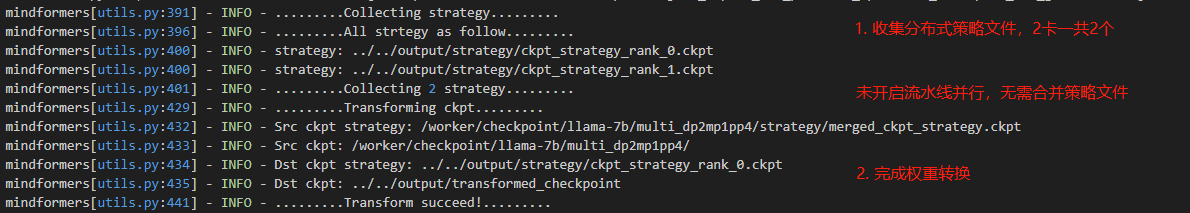
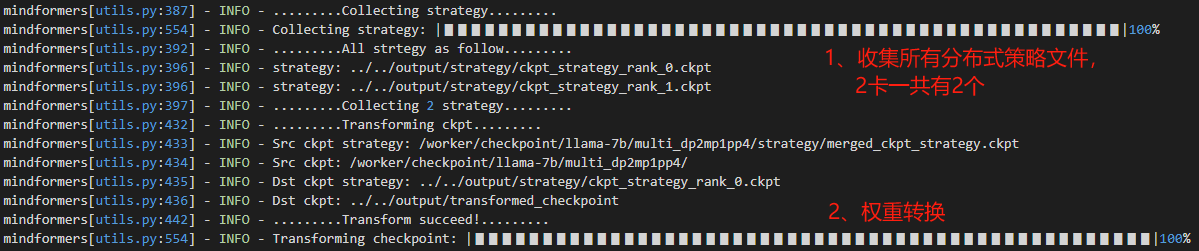
auto_trans整改

diff --git a/mindformers/trainer/utils.py b/mindformers/trainer/utils.py
@@ -31,11 +31,10 @@ from mindformers.tools.logger import logger
 from mindformers.tools.register import MindFormerConfig
 from mindformers.tools.utils import check_in_modelarts, get_output_root_path
 from mindformers.tools.transform_ckpt import get_strategy
+from mindformers.tools.cloud_adapter import mox_adapter
 
 if check_in_modelarts():
     import moxing as mox
-
-ELAPSE_TIME = 7200
 
 class BaseEnum(str, Enum):
     """
@@ -309,9 +308,10 @@ def transform_and_load_checkpoint(config, model, network, dataset, optimizer=Non
 
     if config.auto_trans_ckpt:
         # 2. get strategy
+        src_ckpt_strategy = get_strategy(config.src_strategy_path_or_dir)
         dst_ckpt_strategy = get_dst_strategy(config)
         # 3. transform checkpoint if needed
-        transform_ckpt(config, dst_ckpt_strategy=dst_ckpt_strategy)
+        transform_ckpt(config, src_ckpt_strategy=src_ckpt_strategy, dst_ckpt_strategy=dst_ckpt_strategy)
 
     # 4. load ckpt
     load_ckpt(config, network, optimizer=optimizer)
@@ -416,98 +416,133 @@ def get_dst_strategy(config):
     return dst_strategy_path
 
 
-def transform_ckpt(config, dst_ckpt_strategy=None):
+def transform_ckpt(config, src_ckpt_strategy=None, dst_ckpt_strategy=None):
     """auto transform ckpt"""
+    if not config.load_checkpoint or not os.path.exists(config.load_checkpoint):
+        raise ValueError("The load_checkpoint should be exist, "
+                         f"but get {config.load_checkpoint}.")
+    if not os.path.isdir(config.load_checkpoint) or \
+        not glob(os.path.join(config.load_checkpoint, "rank*")):
+        raise ValueError("The load_checkpoint must be a dir and "
+                         "ckpt should be stored in the format of load_checkpoint/rank_x/xxx.ckpt,"
+                         f"but get {config.load_checkpoint}.")
+
     rank_id = get_rank() if config.use_parallel else 0
     world_size = get_group_size() if config.use_parallel else 1
     transformed_ckpt_dir = os.path.join(get_output_root_path(), "transformed_checkpoint")
     os.makedirs(transformed_ckpt_dir, exist_ok=True)
     if rank_id % 8 == 0:
         logger.info(".........Transforming ckpt.........")
-        src_ckpt_strategy = get_strategy(config.src_strategy_path_or_dir)
-
         logger.info("Src ckpt strategy: %s", src_ckpt_strategy)
         logger.info("Src ckpt: %s", config.load_checkpoint)
         logger.info("Dst ckpt strategy: %s", dst_ckpt_strategy)
         logger.info("Dst ckpt: %s", transformed_ckpt_dir)
-        ms.transform_checkpoints(config.load_checkpoint,
-                                 transformed_ckpt_dir,
-                                 'checkpoint_',
-                                 src_ckpt_strategy,
-                                 dst_ckpt_strategy)
-        logger.info(".........Transform succeed!.........")
-        transform_succeed_txt = os.path.join(transformed_ckpt_dir, f'transform_succeed_rank_{rank_id}.txt')
-        f = open(transform_succeed_txt, 'w')
-        f.close()
+        try:
+            ms.transform_checkpoints(config.load_checkpoint,
+                                     transformed_ckpt_dir,
+                                     'checkpoint_',
+                                     src_ckpt_strategy,
+                                     dst_ckpt_strategy)
+            logger.info(".........Transform succeed!.........")
+            transform_succeed_txt = os.path.join(transformed_ckpt_dir,
+                                                 f'transform_succeed_rank_{rank_id}.txt')
+            f = open(transform_succeed_txt, 'w')
+            f.close()
+        except RuntimeError:
+            logger.error(".........Transform failed!.........")
+            transform_failed_txt = os.path.join(transformed_ckpt_dir,
+                                                f'transform_failed_rank_{rank_id}.txt')
+            f = open(transform_failed_txt, 'w')
+            f.close()
+
         if check_in_modelarts():
             transformed_ckpt_dir_obs = os.path.join(config.remote_save_url, "transformed_checkpoint")
             mox.file.make_dirs(transformed_ckpt_dir_obs)
-            transform_succeed_txt_obs = os.path.join(transformed_ckpt_dir_obs, f'transform_succeed_rank_{rank_id}.txt')
-            mox.file.copy(transform_succeed_txt, transform_succeed_txt_obs)
 
-    wait_transform(config, rank_id, world_size)
+            transform_succeed_txt = os.path.join(transformed_ckpt_dir,
+                                                 f'transform_succeed_rank_{rank_id}.txt')
+            if os.path.exists(transform_succeed_txt):
+                transform_succeed_txt_obs = os.path.join(transformed_ckpt_dir_obs,
+                                                         f'transform_succeed_rank_{rank_id}.txt')
+                mox.file.copy(transform_succeed_txt, transform_succeed_txt_obs)
+
+            transform_failed_txt = os.path.join(transformed_ckpt_dir,
+                                                f'transform_failed_rank_{rank_id}.txt')
+            if os.path.exists(transform_failed_txt):
+                transform_failed_txt_obs = os.path.join(transformed_ckpt_dir_obs,
+                                                        f'transform_failed_rank_{rank_id}.txt')
+                mox.file.copy(transform_failed_txt, transform_failed_txt_obs)
+
+    wait_transform(config, world_size)
 
     if check_in_modelarts():
         transformed_ckpt_dir_obs = os.path.join(config.remote_save_url, "transformed_checkpoint")
         rank_transformed_ckpt_dir_obs = os.path.join(transformed_ckpt_dir_obs, f'rank_{rank_id}')
         rank_transformed_ckpt_dir = os.path.join(get_output_root_path(), "transformed_checkpoint", f'rank_{rank_id}')
-        mox.file.copy_parallel(rank_transformed_ckpt_dir, rank_transformed_ckpt_dir_obs)
+        mox_adapter(rank_transformed_ckpt_dir, rank_transformed_ckpt_dir_obs)
         print(f"Rank {rank_id}: Save {rank_transformed_ckpt_dir} to {rank_transformed_ckpt_dir_obs}")
 
     config.load_checkpoint = transformed_ckpt_dir
 
 
-def wait_transform(config, rank_id, world_size):
+def wait_transform(config, world_size):
     """wait all node transform over"""
-    print(f'Rank {rank_id}: Waiting transforming ckpt......')
-    time_out = False
+    last_count = -1
     if check_in_modelarts():
         transformed_ckpt_dir_obs = os.path.join(config.remote_save_url, "transformed_checkpoint")
-        transform_succeed_txts_obs = [os.path.join(transformed_ckpt_dir_obs, f'transform_succeed_rank_{int(i/8)*8}.txt')
-                                      for i in range(0, world_size, 8)]
-        total_num = len(transform_succeed_txts_obs)
-        all_node_transform_succeed = False
-        start_time = time.time()
-        while not all_node_transform_succeed:
-            node_transform_succeed_num = 0
-            for transform_succeed_txt in transform_succeed_txts_obs:
-                if mox.file.exists(transform_succeed_txt):
-                    node_transform_succeed_num += 1
-                else:
-                    break
-            if node_transform_succeed_num == total_num:
-                all_node_transform_succeed = True
-            else:
-                elapsed_time = time.time() - start_time
-                if elapsed_time >= ELAPSE_TIME:
-                    logger.warning("Automatic weight transform is timed out!")
-                    time_out = True
-                    break
+        while True:
+            transform_failed_txts_obs = mox.file.glob(os.path.join(transformed_ckpt_dir_obs,
+                                                                   f'transform_failed_rank_*.txt'))
+            if transform_failed_txts_obs:
+                raise ValueError(f"Transform failed, find {transform_failed_txts_obs}.")
+
+            transform_succeed_txts_obs = mox.file.glob(os.path.join(transformed_ckpt_dir_obs,
+                                                                    f'transform_succeed_rank_*.txt'))
+            current_count = len(transform_succeed_txts_obs)
+            total_num = len(list(range(0, world_size, 8)))
+            progress = (current_count / total_num) * 100
+            if current_count != last_count:
+                show_progress(progress, prefix="Transforming checkpoint")
+                last_count = current_count
+            if current_count < total_num:
                 time.sleep(5)
+            else:
+                break
     else:
         transformed_ckpt_dir = os.path.join(get_output_root_path(), "transformed_checkpoint")
-        transform_succeed_txt = os.path.join(transformed_ckpt_dir, f'transform_succeed_rank_0.txt')
-        start_time = time.time()
-        while not os.path.exists(transform_succeed_txt):
-            elapsed_time = time.time() - start_time
-            if elapsed_time >= ELAPSE_TIME:
-                time_out = True
+        while True:
+            transform_failed_txts = glob(os.path.join(transformed_ckpt_dir,
+                                                      f'transform_failed_rank_*.txt'))
+            if transform_failed_txts:
+                raise ValueError(f"Transform failed, find {transform_failed_txts}.")
+
+            transform_succeed_txts = glob(os.path.join(transformed_ckpt_dir,
+                                                       f'transform_succeed_rank_*.txt'))
+            current_count = len(transform_succeed_txts)
+            total_num = len(list(range(0, world_size, 8)))
+            progress = (current_count / total_num) * 100
+            if current_count != last_count:
+                show_progress(progress, prefix="Transforming checkpoint")
+                last_count = current_count
+            if current_count < total_num:
+                time.sleep(5)
+            else:
                 break
-            time.sleep(5)
-    print(f'Rank {rank_id}: Transform succeed!')
-    if time_out:
-        return False
-    return True
 
 
 def wait_collect_all_strategy(strategy_dir, total_num, obs_strategy_dir=None):
     """wait all strategy collect over"""
-    start_time = time.time()
-    time_out = False
+    last_count = -1
+    last_count_obs = -1
     while True:
         if obs_strategy_dir:
             obs_strategy_paths = mox.file.glob(os.path.join(obs_strategy_dir, "*.ckpt"))
-            if len(obs_strategy_paths) < total_num:
+            obs_current_count = len(obs_strategy_paths)
+            progress = (obs_current_count / total_num) * 100
+            if obs_current_count != last_count_obs:
+                show_progress(progress, prefix="Collecting strategy")
+                last_count_obs = obs_current_count
+            if obs_current_count < total_num:
                 time.sleep(5)
                 continue
             for obs_strategy_path in obs_strategy_paths:
@@ -515,18 +550,21 @@ def wait_collect_all_strategy(strategy_dir, total_num, obs_strategy_dir=None):
                 mox.file.copy(obs_strategy_path, local_strategy_path)
 
         local_strategy_paths = glob(os.path.join(strategy_dir, "*_rank_*.ckpt"))
-        if len(local_strategy_paths) == total_num:
-            break
-        else:
-            elapsed_time = time.time() - start_time
-            if elapsed_time >= ELAPSE_TIME:
-                logger.warning("Collection of all strategy timed out!")
-                time_out = True
-                break
+        local_current_count = len(local_strategy_paths)
+        progress = (local_current_count / total_num) * 100
+        if local_current_count != last_count:
+            show_progress(progress, prefix="Collecting strategy")
+            last_count = local_current_count
+        if local_current_count < total_num:
             time.sleep(5)
-    if time_out:
-        return False
-    return True
+        else:
+            break
+
+
+def show_progress(progress, prefix=''):
+    """show progress"""
+    show_str = ('|%%-%ds|' % 50) % (int(50 * progress / 100) * "▮")
+    logger.info("%s: %s%d%%", prefix, show_str, progress)
 
 
 def load_ckpt(config, network, optimizer=None):

diff --git a/docs/feature_cards/Transform_Ckpt.md b/docs/feature_cards/Transform_Ckpt.md
@@ -515,7 +515,7 @@ processor:
 
 ```shell
 cd script
-./run_distribute.sh rank_table_2.json configs/llama/run_llama_13b.yaml [0,2] predict "<human>:你是谁？\n<bot>:"
+./run_distribute.sh rank_table_2.json configs/llama/run_llama_13b.yaml [0,2] predict "I love beijing, because"
 ```
 
 ③ 查看权重转换相关日志
@@ -540,7 +540,7 @@ cd script
 
 ### ModelArts训练案例
 
-**案例描述**：基于一份完整的llama-13B预训练权重，在Modelarts上使用16卡进行分布式训练。
+**案例描述**：基于一份完整的llama-7B预训练权重，在Modelarts上使用16卡进行分布式训练。
 
 **步骤**：
 
@@ -562,24 +562,22 @@ micro_batch_interleave_num: 1
 
 ② 训练作业配置
 
-![llama13b_autotrans_1to16_train_modelarts_inputs](assets/Transform_Ckpt/llama13b_autotrans_1to16_train_modelarts_inputs.png)
-
-![llama13b_autotrans_1to16_train_modelarts_params](assets/Transform_Ckpt/llama13b_autotrans_1to16_train_modelarts_params.png)
+![llama13b_autotrans_1to16_train_modelarts_inputs](assets/Transform_Ckpt/llama7b_autotrans_1to16_train_modelarts_config.png)
 
 ③ 提交训练作业，查看训练日志
 
-![llama13b_autotrans_1to16_train_modelarts_log1](assets/Transform_Ckpt/llama13b_autotrans_1to16_train_modelarts_log1.png)
+![llama13b_autotrans_1to16_train_modelarts_log1](assets/Transform_Ckpt/llama7b_autotrans_1to16_train_modelarts_log1.png)
 
-![llama13b_autotrans_1to16_train_modelarts_log2](assets/Transform_Ckpt/llama13b_autotrans_1to16_train_modelarts_log2.png)
+![llama13b_autotrans_1to16_train_modelarts_log2](assets/Transform_Ckpt/llama7b_autotrans_1to16_train_modelarts_log2.png)
 
 ④ 查看转换生成的文件
 
 **分布式策略文件**：保存在`remote_save_url/strategy`文件夹下，由于开启了**流水线并行**，会对所有`ckpt_strategy_rank_x.ckpt`进行合并，得到`merged_ckpt_strategy.ckpt`。若不开启流水线并行，则不会合并。
 
-![llama13b_autotrans_1to16_train_modelarts_strategy](assets/Transform_Ckpt/llama13b_autotrans_1to16_train_modelarts_strategy.png)
+![llama13b_autotrans_1to16_train_modelarts_strategy](assets/Transform_Ckpt/llama7b_autotrans_1to16_train_modelarts_strategy.png)
 
 **分布式权重**：保存在`output/transformed_checkpoint`文件夹下
 
-![llama13b_autotrans_1to16_train_modelarts_distribute_ckpt](assets/Transform_Ckpt/llama13b_autotrans_1to16_train_modelarts_distribute_ckpt.png)
+![llama13b_autotrans_1to16_train_modelarts_distribute_ckpt](assets/Transform_Ckpt/llama7b_autotrans_1to16_train_modelarts_transformed_checkpoint.png)
 
 注：**strategy**和**transformed_checkpoint**两个文件夹请及时保存到**自定义文件夹**中，以免被后续转换任务清空。
